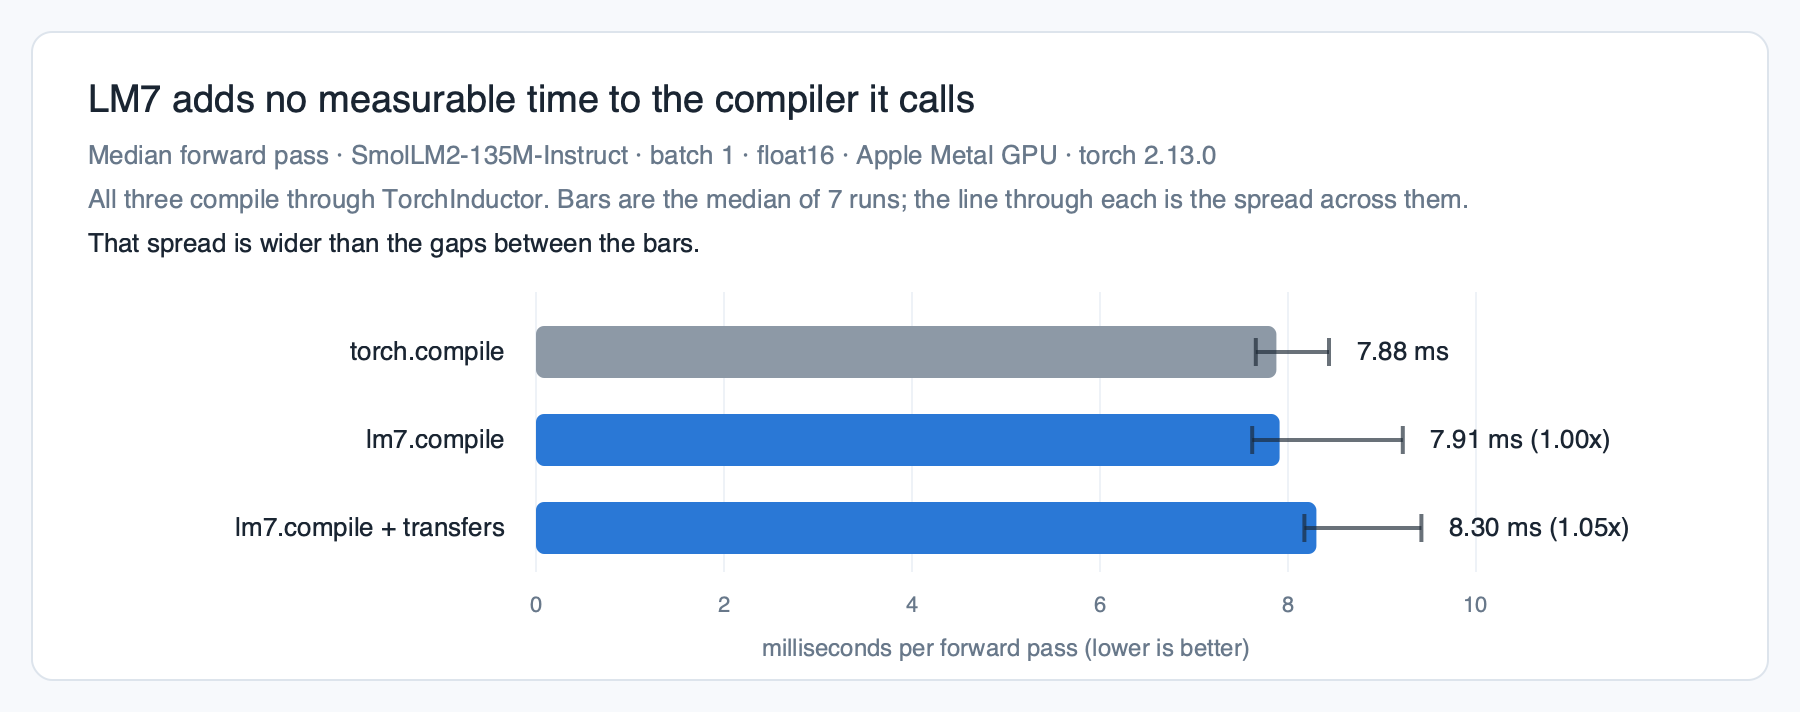
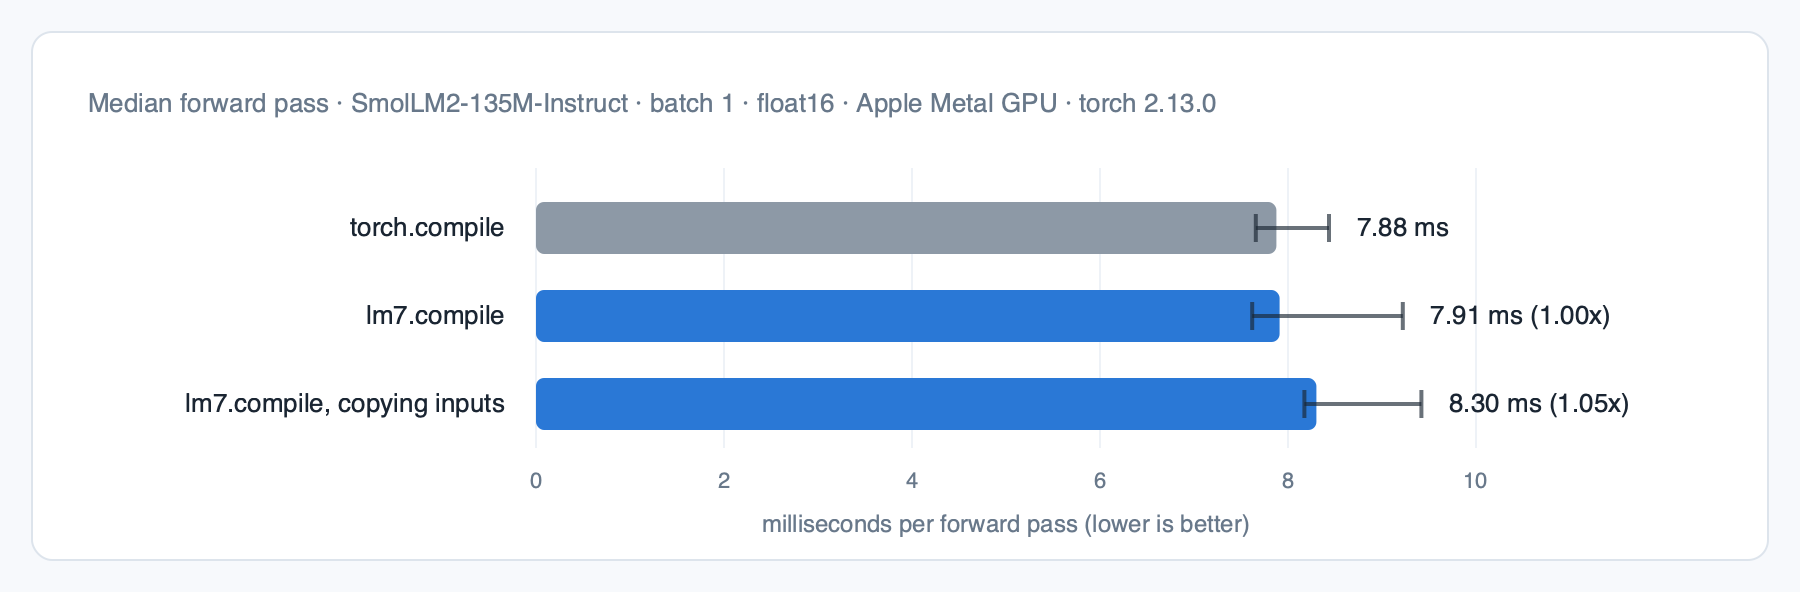
Take the prose off the figure and put it in the README
The figure said four things; three of them were sentences, and sentences
belong beside an image rather than inside one. What is left is the bars,
the numbers and one line naming what was run -- the part a reader cannot
reconstruct from the surrounding text.

Renames the third bar. `lm7.compile + transfers` named the setting that
causes the effect rather than the effect, and read as jargon to the
first person who saw it; it is `lm7.compile, copying inputs` now, with
`transfers="automatic"` explained in the README where there is room for
a clause about it.

The script now prints the run count, medians and ranges it plotted,
because the figure no longer states any of them and the prose that does
has to be updated by hand when they move.

diff --git a/docs/figures/overhead.py b/docs/figures/overhead.py
@@ -63,16 +63,20 @@ SANS = (
 )
 MONO = "ui-monospace, SFMono-Regular, Menlo, Consolas, monospace"
 
-WIDTH, HEIGHT = 900, 356
-PLOT = {"x": 268, "y": 154, "w": 470, "h": 132}
+WIDTH, HEIGHT = 900, 296
+PLOT = {"x": 268, "y": 92, "w": 470, "h": 132}
 BAR_H = 26
 X_MAX = 10.0  # milliseconds; the axis starts at zero, because a bar chart must
 
 # The arms, in the order they are drawn, with the label each gets on the left.
+# The third label names what it does rather than the setting that does it:
+# `transfers="automatic"` is LM7's default and copies the caller's inputs to the
+# device on every call, and "+ transfers" read as jargon to the first person who
+# saw this figure. What the setting is called belongs in the prose around it.
 ARMS = {
     "torch-compile": ("torch.compile", REFERENCE),
     "inductor-placed": ("lm7.compile", LM7),
-    "inductor": ("lm7.compile + transfers", LM7),
+    "inductor": ("lm7.compile, copying inputs", LM7),
 }
 
 
@@ -115,7 +119,6 @@ def collect(paths: list[Path]) -> tuple[dict[str, list[float]], dict[str, Any]]:
 def render(runs: dict[str, list[float]], context: dict[str, Any]) -> str:
     scale = PLOT["w"] / X_MAX
     row_h = PLOT["h"] / len(ARMS)
-    count = len(next(iter(runs.values())))
     medians = {arm: statistics.median(values) for arm, values in runs.items()}
     baseline = medians["torch-compile"]
 
@@ -133,36 +136,15 @@ def render(runs: dict[str, list[float]], context: dict[str, Any]) -> str:
     )
     s: list[str] = [opening, f'<rect width="{WIDTH}" height="{HEIGHT}" fill="{PAGE}"/>', surface]
 
-    s.append(_t(44, 56, "LM7 adds no measurable time to the compiler it calls", 19, INK, "600"))
     s.append(
         _t(
             44,
-            82,
+            56,
             f"Median forward pass · {context['model_id'].split('/')[-1]} · "
             f"batch {context['batch_size']} · {context['dtype']} · "
             f"{context.get('device_name', 'GPU')} · torch {context.get('torch', '?')}",
             13,
             MUTED,
-        )
-    )
-    s.append(
-        _t(
-            44,
-            104,
-            "All three compile through TorchInductor. Bars are the median of "
-            f"{count} runs; the line through each is the spread across them.",
-            13,
-            MUTED,
-        )
-    )
-    s.append(
-        _t(
-            44,
-            126,
-            "That spread is wider than the gaps between the bars.",
-            13,
-            INK,
-            "500",
         )
     )
 
@@ -235,6 +217,15 @@ def main() -> None:
     arguments = parser.parse_args()
 
     runs, context = collect(list(arguments.artifacts.glob(arguments.glob)))
+    # Printed because the figure itself no longer says any of it: the run count
+    # and the medians live in the README prose beside the image, and that prose
+    # has to be updated by hand when these move.
+    print(f"{len(next(iter(runs.values())))} runs")
+    for arm, values in runs.items():
+        print(
+            f"  {arm:<16} median {statistics.median(values):6.2f} ms   "
+            f"range {min(values):.2f}-{max(values):.2f}"
+        )
     svg = here / "lm7-overhead.svg"
     svg.write_text(render(runs, context), encoding="utf-8")
     print(f"wrote {svg.name} ({svg.stat().st_size:,} bytes)")

diff --git a/README.md b/README.md
@@ -185,29 +185,37 @@ currently fails on:
 
 ### And what does the layer itself cost?
 
-The other direction: LM7 against the toolchain it orchestrates, both compiling
-through Inductor, on the same machine.
+The other direction: **LM7 adds no measurable time to the compiler it calls.**
+All three bars below compile the same model through TorchInductor; what differs
+is how much of LM7 is in the call path.
 
-![Bar chart of median forward-pass latency for SmolLM2-135M on an Apple M3 Pro: torch.compile called directly at 7.88 ms, the same model through lm7.compile at 7.91 ms, and through lm7.compile with its default per-call input transfer at 8.30 ms. The range across runs on each bar is wider than the gaps between the bars.](docs/figures/lm7-overhead.png)
+![Bar chart of median forward-pass latency for SmolLM2-135M on an Apple M3 Pro: torch.compile called directly at 7.88 ms, the same model through lm7.compile at 7.91 ms, and through lm7.compile copying its inputs at 8.30 ms. The range across runs on each bar is wider than the gaps between the bars.](docs/figures/lm7-overhead.png)
 
-The line through each bar is the spread across 7 runs, and it is wider than the
-distance between the bars — which is the whole finding. The same numbers, with
-the ratios computed within each process, where the arms run seconds apart:
+Each bar is the median of 7 runs, and the line through it is the spread across
+those runs. **That spread is wider than the gaps between the bars**, which is the
+whole finding: the difference the layer makes is smaller than the difference
+between two runs of the same thing.
 
-| `torch.compile` called directly | LM7, inputs placed | LM7, default transfers |
+The third bar is LM7's default, `transfers="automatic"`, which copies your inputs
+to the device on every call so that a caller holding CPU tensors does not have to
+think about it. The second bar is the same LM7 path with `transfers="explicit"`
+and the inputs already placed, which is what any code already holding device
+tensors would do. Same numbers, with each ratio computed inside its own process,
+where the arms run seconds apart:
+
+| `torch.compile` called directly | LM7, inputs placed | LM7, copying inputs |
 | --- | --- | --- |
 | 7.88 ms | 7.91 ms — **1.03x** (0.90–1.11) | 8.30 ms — **1.07x** (0.97–1.15) |
 
 Both ranges contain 1.0, so on a model doing real work the overhead is below what
 this machine can resolve — individual runs land on either side. The cost is
-**fixed per call, not proportional**: about
-0.03 ms of dispatch plus about 0.21 ms of input transfer, the latter only because
-`transfers="automatic"` is the default and opt-out. On a microbenchmark small
-enough for that to dominate — a 0.44 ms MLP — the same fixed cost reads as 1.44x,
-which is a fact about the microbenchmark rather than about the layer. See [what
-LM7 costs over calling `torch.compile`
+**fixed per call, not proportional**: about 0.03 ms of dispatch plus about
+0.21 ms of input copying. On a microbenchmark small enough for that to dominate —
+a 0.44 ms MLP — the same fixed cost reads as 1.44x, which is a fact about the
+microbenchmark rather than about the layer. See [what LM7 costs over calling
+`torch.compile`
 yourself](docs/apple-mps.md#what-lm7-costs-over-calling-torchcompile-yourself)
-for the method, the caveats, and the arm that separates dispatch from transfer.
+for the method and the caveats.
 
 ## Integrated targets
 
